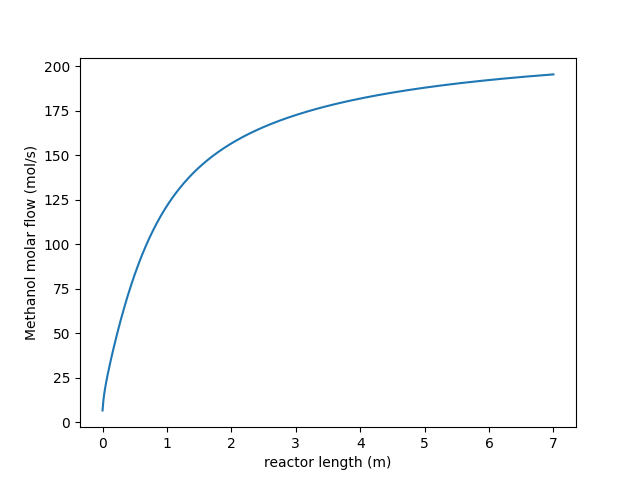
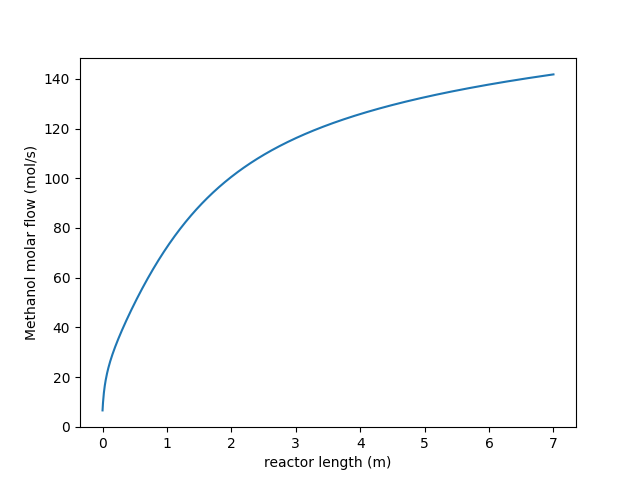
First commit

diff --git a/Trial.py b/Trial.py
@@ -10,7 +10,7 @@ from optax import adam
 from scipy.optimize import differential_evolution, dual_annealing, minimize
 from jax.config import config
 config.update("jax_enable_x64", True)
-jax.config.update('jax_disable_jit', True)
+config.update('jax_disable_jit', True)
 
 class Species:
     heat_of_formation_298 = jnp.array([-110.525, -393.509, -200.660, 0.0, -241.818]) * 1000  # J
@@ -64,13 +64,13 @@ class Reactor:
     e_cat = 0.39  # void fraction of catalyst bed
     p_cat = 1100.0  # kg/m3, density of catalyst bed
     a = 1.0  # activity of catalyst,
-    D_i = 0.038  # m, internal diameter of reactor tube
+    D_i = 0.038  # m, internal diameter of self tube
     MW_i = jnp.array(
         [28.01, 44.01, 32.04, 1.0079, 18.015, 16.04, 28.0134])  # molecular weights (CO, CO2, CH3OH, H2, H20, CH4, N2)
-    U_shell = 631.0  # W/m2K, overall heat transfer coefficient from reactor tube-side to shell-side
+    U_shell = 631.0  # W/m2K, overall heat transfer coefficient from self tube-side to shell-side
     z = 7.0  # m, length of PFR
     volume_t = jnp.pi * D_i ** 2 / 4 * z
-    A = jnp.pi * D_i ** 2 / 4  # cross-sectional area of reactor tube
+    A = jnp.pi * D_i ** 2 / 4  # cross-sectional area of self tube
     n_i = 1.0
     T_shell = 511.0  # K, temperature of boiling water on the shell side
     F_i0 = jnp.array([10727.0, 23684.2, 756.7, 9586.5, 108.8, 4333.1,
@@ -88,9 +88,9 @@ class Reactor:
         K_constants = jnp.array([[3453.38, 0.0], [0.499, 17197], [6.62 * 10 ** -11, 124119]])  # K by A/B
         Keq_constants = jnp.array([[3066.0, 10.592], [-2073.0, -2.029]])  # K by A/B
 
-        k = k_constants[:, 0] * jnp.exp(k_constants[:, 1] / reactor.R / T)
-        K = K_constants[:, 0] * jnp.exp(K_constants[:, 1] / reactor.R / T)
-        Keq = 10.0 ** (Keq_constants[:, 0] / (T) - Keq_constants[:, 1])
+        k = k_constants[:, 0] * jnp.exp(k_constants[:, 1] / self.R / T)
+        K = K_constants[:, 0] * jnp.exp(K_constants[:, 1] / self.R / T)
+        Keq = 10.0 ** (Keq_constants[:, 0] / T - Keq_constants[:, 1])
         return jnp.concatenate((k, K, Keq))
 
     def rate_expression(self, T, F_i):
@@ -125,14 +125,14 @@ class Reactor:
         return y_i
 
     def partial_pressure(self, F_i):
-        p = F_i/jnp.sum(F_i) * reactor.P
+        p = F_i/jnp.sum(F_i) * self.P
         return p
 
     def total_molar_t(self, F_i):
         return jnp.sum(F_i)
 
     def var_0(self, T_0):
-        F_i0 = reactor.F_i0
+        F_i0 = self.F_i0
         return jnp.concatenate((F_i0, T_0))
 
     @partial(jax.jit, static_argnums=(0))
@@ -144,18 +144,17 @@ class Reactor:
         r_i = self.rate_expression(T, F_i)
         Cp = self.species.specific_heat(T, y_i)
         Hf = self.species.heat_of_formation(T)
-        Ct = reactor.P / (reactor.R * 10 ** -5) / T
-
-        dFdz = reactor.Nt * reactor.A * reactor.p_cat * (1 - reactor.e_cat) * r_i
-        dTdz = jnp.array([(reactor.p_cat * reactor.a / reactor.e_cat / Ct / Cp * (jnp.sum(reactor.n_i * r_i[
-                                                                                                        0:5] * -Hf)) + 0*jnp.pi * reactor.D_i / reactor.A / reactor.e_cat / Ct / Cp * reactor.U_shell * (
-                                       reactor.T_shell - T)) * reactor.A * reactor.e_cat * Ct / ft])
-        return jnp.concatenate((dFdz, dTdz))
+        Ct = self.P / (self.R * 10 ** -5) / T
+        Ct = jnp.sum(F_i)/(self.volume_t*self.Nt)*100
+        dFdz = self.Nt * self.A * self.p_cat * (1 - self.e_cat) * r_i
+        dTdz = (self.p_cat * self.a / self.e_cat / Ct / Cp * (jnp.sum(self.n_i * r_i[0:5] * -Hf)) + jnp.pi * self.D_i / self.A / self.e_cat / Ct / Cp * self.U_shell * (
+                                       self.T_shell - T)) * self.A * self.e_cat * Ct / ft*1000.0
+        return jnp.concatenate((dFdz, dTdz[None]))
 
     def mass_energy_balance(self, T_0):
         Z = jnp.linspace(0.0, self.z, self.no_ode_steps)
         var_0 = self.var_0(T_0)
-        sol = jodeint(self.pfr, var_0, Z)
+        sol = odeint(self.pfr, var_0, Z)
         return sol
 
     def objective_function(self, T_0):
@@ -165,18 +164,17 @@ class Reactor:
     @partial(jax.jit, static_argnums=(0))
     def step(self, dept, opt_state):
         grads = jax.grad(self.objective_function)(dept)
-        updates, opt_state = reactor.optimizer.update(grads, opt_state)
+        updates, opt_state = self.optimizer.update(grads, opt_state)
         dept = optax.apply_updates(dept, updates)
         return dept
 
     def loop(self, dept):
         deptvalues = []
-        opt_state = reactor.optimizer.init(dept)
+        opt_state = self.optimizer.init(dept)
         for _ in range(self.no_optim_steps):
             dept = self.step(dept, opt_state)
             deptvalues.append(dept)
         return deptvalues
-
 
 class Separator:
     species = Species()
@@ -198,22 +196,24 @@ class Separator:
         return jnp.abs(RR)
 
 if __name__ == '__main__':
-    initial_temperature = jnp.array([550.0])  # K
+    initial_temperature = jnp.array([523.0])  # K
     reactor = Reactor()
     sol = reactor.mass_energy_balance(initial_temperature)
     Z = jnp.linspace(0.0, reactor.z, reactor.no_ode_steps)
 
     # Temperature vs length plots
+    plt.figure()
     plt.plot(Z, sol[:, 7], 'ro', markersize=1 * 0.5)
     plt.xlabel("Length of reactor (m)")
     plt.ylabel("Temperature (K)")
     plt.savefig("T vs length")
 
     # Methanol vs length plots
-    # plt.plot(Z, sol[:,2])
-    # plt.xlabel("reactor length (m)")
-    # plt.ylabel("Methanol molar flow (mol/s)")
-    # plt.savefig("CH3OH mole flow vs length")
+    plt.figure()
+    plt.plot(Z, sol[:,2])
+    plt.xlabel("reactor length (m)")
+    plt.ylabel("Methanol molar flow (mol/s)")
+    plt.savefig("CH3OH mole flow vs length")
 
     # # Rate plots
     temperature_range = jnp.linspace(298,600,100)

diff --git a/Trial_test.py b/Trial_test.py
@@ -1,0 +1,19 @@
+import pytest
+from Trial import Reactor
+import chex
+import jax.numpy as jnp
+
+@pytest.fixture
+def reactor():
+    reactor = Reactor()
+    return reactor
+
+
+def test_pfr(reactor):
+    F_i0 = jnp.array([10727.0, 23684.2, 756.7, 9586.5, 108.8, 4333.1,
+                      8072.0]) / 3600 * 1000 / reactor.MW_i  # mol/s, molar flow of species/tube
+    T = jnp.array([530.0])
+    var = jnp.concatenate((F_i0, T))
+    z = jnp.array([2.0])
+    output = reactor.pfr(var, z)
+    chex.assert_shape(output, (8,))
